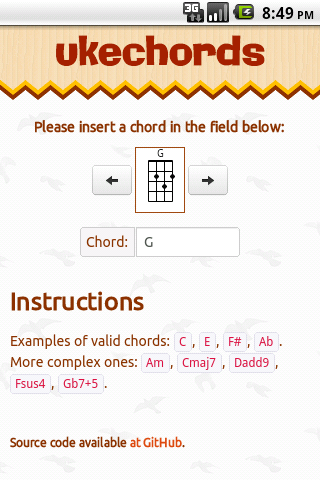
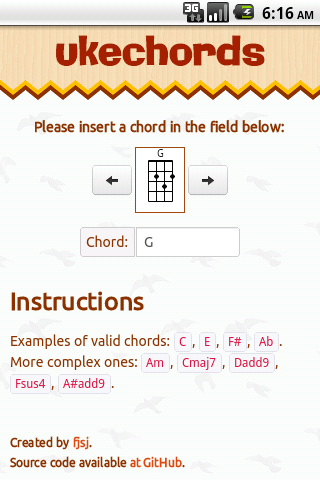
Updating screenshot

diff --git a/index.html b/index.html
@@ -41,7 +41,7 @@
   </div><!-- /content -->
 
   <div data-role="footer" class="footer">
-    <h6>Created by <a href="https://github.com/fjsj/">fjsj</a>. Source code available <a href="https://github.com/fjsj/ukechords">at GitHub</a>.</h6>
+    <h6>Created by <a href="https://github.com/fjsj/">fjsj</a>. <br/>Source code available <a href="https://github.com/fjsj/ukechords">at GitHub</a>.</h6>
   </div><!-- /footer -->
 </div><!-- /page -->
 
